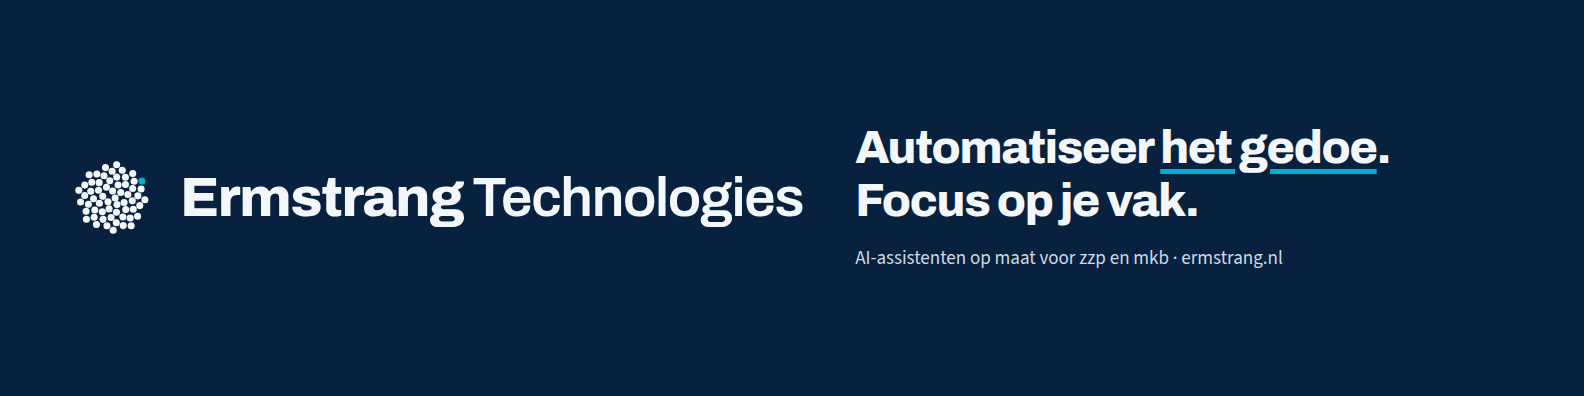
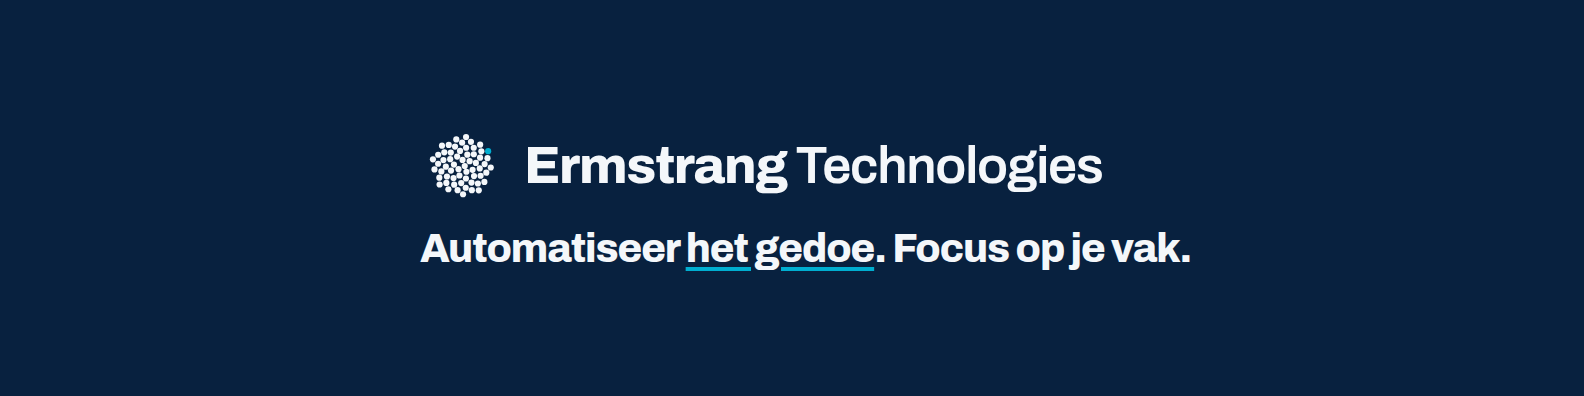
LinkedIn-omslag: inhoud naar het midden, buiten de profielfoto en het mobiele bijsnijvlak
De profielfoto dekte het woordmerk af. Merkteken en naam beginnen nu op 420 px en de
compositie staat in de middelste helft; gecontroleerd met overleg- en uitsnedeproef
(design/banner-safe-zone.png). Merkblad en DESIGN.md beschrijven de marge.

Changed region(s): [[0.0309, 0.3333, 0.8971, 0.697]]

diff --git a/design/asset-render2.html b/design/asset-render2.html
@@ -18,12 +18,13 @@
   #mark-paper{width:512px;height:512px;background:#F4F7FA}
 
   #banner{width:1584px;height:396px;background:oklch(0.247 0.065 255); color:#F4F7FA;
-          padding:0 64px; display:grid; grid-template-columns:auto 1fr; align-items:center; gap:52px}
-  #banner .lock{display:flex; align-items:center; gap:20px}
-  #banner .lock img{width:96px;height:96px}
-  #banner .word{font-weight:800; font-size:56px; letter-spacing:-1.4px; line-height:1; white-space:nowrap}
+          padding-left:420px; padding-right:64px; display:flex; align-items:center}
+  #banner .inner{display:grid; gap:18px}
+  #banner .row1{display:flex; align-items:center; gap:20px}
+  #banner .lock img{width:84px;height:84px;display:block}
+  #banner .word{font-weight:800; font-size:52px; letter-spacing:-1.3px; line-height:1; white-space:nowrap}
   #banner .word span{font-weight:400}
-  #banner .tag{font-weight:800; font-size:46px; line-height:1.16; letter-spacing:-1.3px; max-width:19ch}
+  #banner .tag{font-weight:800; font-size:40px; line-height:1.15; letter-spacing:-1.1px}
   #banner .tag u{text-decoration-color:#00AED0; text-decoration-thickness:.1em; text-underline-offset:.12em}
   #banner .meta{font-family:"Source Sans 3",sans-serif; font-size:19px; color:#CFD9E3; margin-top:16px}
 
@@ -61,15 +62,14 @@
 <div class="art"><p class="cap">mark-navy 512 · los merkteken op navy</p>
   <div class="sq" id="mark-navy"><img src="../assets/img/mark-dots-omgekeerd.svg" width="320" height="320" alt=""></div></div>
 
-<div class="art"><p class="cap">linkedin-banner 1584×396</p>
+<div class="art"><p class="cap">linkedin-banner 1584×396 · rechts van de profielfoto, midden in het mobiele bijsnijvlak</p>
   <div id="banner">
-    <div class="lock">
-      <img src="../assets/img/mark-dots-omgekeerd.svg" alt="">
-      <div class="word">Ermstrang <span>Technologies</span></div>
-    </div>
-    <div>
+    <div class="inner">
+      <div class="row1">
+        <span class="lock"><img src="../assets/img/mark-dots-omgekeerd.svg" alt=""></span>
+        <span class="word">Ermstrang <span>Technologies</span></span>
+      </div>
       <div class="tag">Automatiseer <u>het gedoe</u>. Focus op je vak.</div>
-      <div class="meta">AI-assistenten op maat voor zzp en mkb · ermstrang.nl</div>
     </div>
   </div></div>
 

diff --git a/brand/index.html b/brand/index.html
@@ -76,6 +76,9 @@
     <li>· Niet vervormen, niet kantelen, geen slagschaduw, geen verloop, geen puntjes bijmaken of
       weghalen, en het cyaan puntje niet verplaatsen.</li>
     <li>· Woordmerk in Archivo: naam 800, "Technologies" 400, dezelfde grootte, op één regel.</li>
+    <li>· <strong>LinkedIn-omslag:</strong> houd tekst en merkteken binnen het midden. Links niet
+      vóór 420 px (daar komt je profielfoto over de banner heen) en alles binnen de middelste helft
+      van de breedte — dan blijft het ook op mobiel staan, waar LinkedIn de zijkanten wegsnijdt.</li>
   </ul>
 
   <h2 style="margin-top:var(--band-tight)">De naam aanpassen</h2>

diff --git a/design/DESIGN.md b/design/DESIGN.md
@@ -98,7 +98,10 @@ zichtbaar). `prefers-reduced-motion` zet alles meteen neer (gecontroleerd).
 
 - Het merkteken uit de eerste ronde (vierkant met drie balken) is vervangen. De oude bestanden staan
   nog in `~/Documents/Ermstrang*`; die horen niet meer gebruikt te worden.
-- Het LinkedIn-bannerformaat wordt op mobiel aan de zijkanten bijgesneden: het woordmerk links kan
-  wegvallen, de slogan in het midden blijft staan.
+- De LinkedIn-omslag houdt zijn inhoud expres binnen het midden: merkteken en naam beginnen op
+  420 px (de profielfoto komt tot ~393 px over de banner heen) en de hele compositie staat in de
+  middelste helft van de breedte. Op mobiel snijdt LinkedIn de zijkanten weg; gecontroleerd met een
+  midden-60%- en midden-50%-uitsnede (`design/shots/check-banner.png`). Gebruik die marge ook bij
+  een latere nieuwe omslag.
 - `privacy.html` is inhoudelijk geschreven maar nog niet juridisch nagekeken en mist de
   bedrijfsgegevens (staan als commentaar in de HTML en als TODO in README.md).
